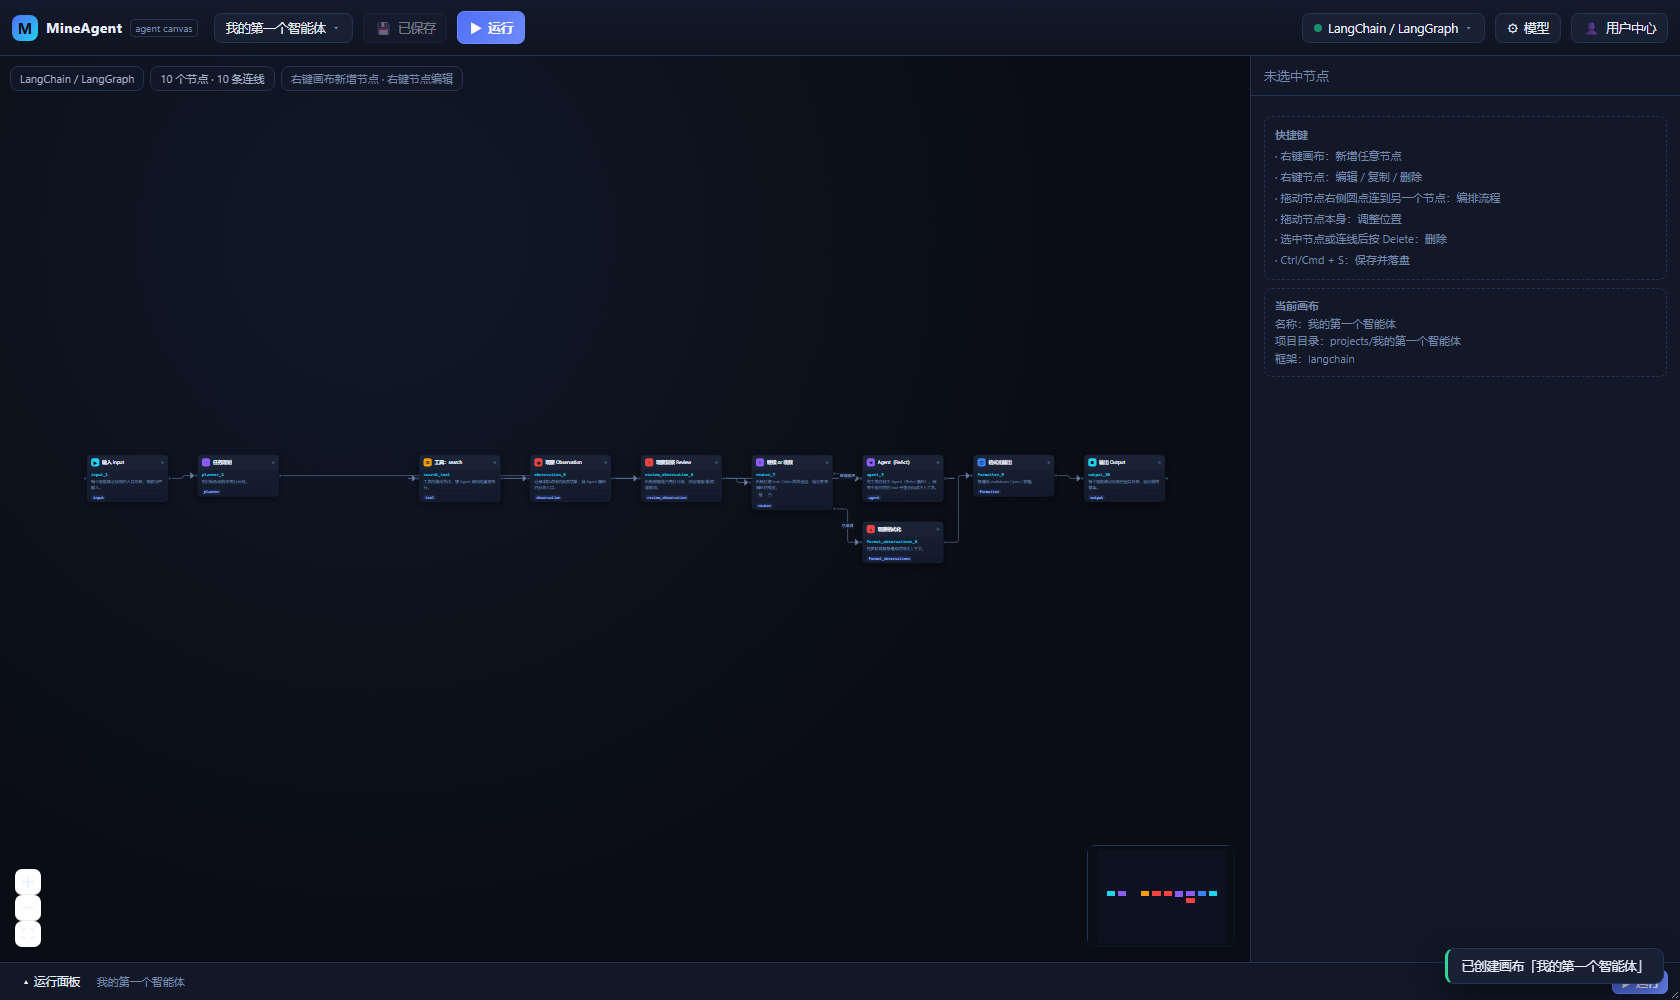
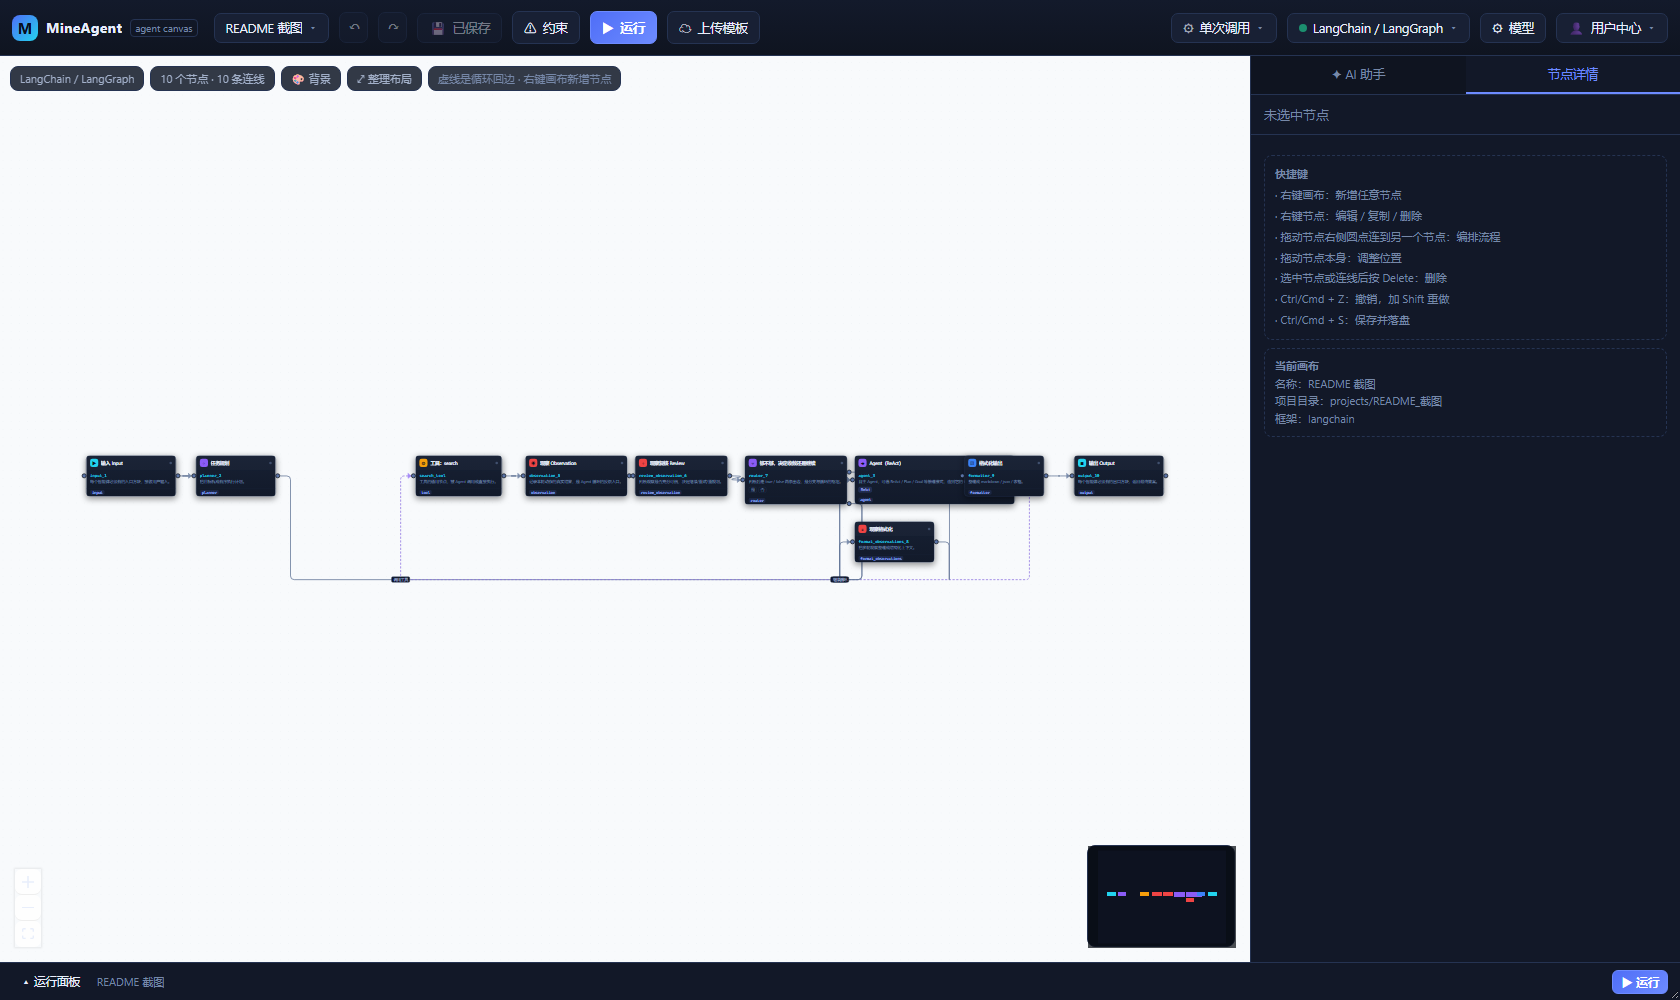
docs: 更新 README（社区模板 / 流式运行 / 33 个模式），重截全部界面截图

diff --git a/README.md b/README.md
@@ -11,6 +11,13 @@
 - 存储：SQLite 存画布与配置；`projects/<画布名>/` 存生成出来的 Agent 项目
 - 启动：双击 `start.bat`（或 `.\start.ps1`），一个端口，一个地址
 
+最近新增：
+
+- 🧩 **社区模板**：一键把画布提成 GitHub PR，也能在应用里加载别人分享的模板
+- ⚡ **流式运行**：模型输出逐 token 回显，执行到哪个节点哪个节点高亮，每个节点的输出都留在运行日志里
+- 🎯 **33 个推理模式模板**：选一个模式直接生成对应架构，不用从空白画布搭
+- 🎨 画布默认改成**纸白**底色，长时间看画布不刺眼
+
 ---
 
 ## 快速开始
@@ -37,7 +44,7 @@
 .\.venv\Scripts\python.exe tools\mock_llm.py --port 8012
 ```
 
-然后在「用户中心」把 Base URL 填 `http://127.0.0.1:8012/v1`、模型填 `mock-model`、Key 随便填，
+然后在「用户中心 → 模型配置」把 Base URL 填 `http://127.0.0.1:8012/v1`、模型填 `mock-model`、Key 随便填，
 整条链路（画布 → 代码 → 运行 → 事件流）就能完整跑起来。
 
 ---
@@ -50,7 +57,9 @@
 
 ![节点代码编辑](docs/screenshots/03-code-editor.png)
 
-点运行后，每个节点的执行过程、耗时、分支走向会实时回显，最终结果单独展示：
+点运行后，执行到哪个节点，哪个节点就会实时高亮（脉冲边框 +「运行中」角标）；
+运行面板逐条打印「执行到哪个节点、耗时多少、输出什么」，模型输出逐 token 流式回显，
+最终结果单独展示：
 
 ![运行面板](docs/screenshots/05-run.png)
 
@@ -68,7 +77,8 @@
 | 右上角「选择模式」 | 框架**左边**的下拉，列出该框架支持的推理模式（ReAct / CoT / Plan-and-Execute / 群聊…），选中后作为画布默认，新建 agent 节点会用它 |
 | 右上角下拉 | 选择 Agent 框架（LangChain/LangGraph、AutoGen、CrewAI…），切换后重建架构图 |
 | 右上角「模型」 | 配置**这个画布**用的大模型与 API Key |
-| 右上角「用户中心」 | 配置**整个项目**的全局 API Key（画布没单独配置时回退到这里） |
+| 右上角「用户中心」 | 账户与配置下拉：GitHub 账户 / 模型配置 / 公共模板 |
+| 运行按钮右侧「☁ 上传模板」 | 把当前画布和项目文件贡献成社区模板，自动创建 GitHub PR（不含任何密钥） |
 | 右键空白画布 | 弹出节点面板，110 种细粒度节点任选（带搜索）；新增后**按约束自动连线** |
 | 鼠标划过节点面板条目 | 右侧弹出该节点的「概念 / 解释 / 用途 / 编码建议」 |
 | 右键任意节点 | 编辑代码逻辑 / 编辑属性参数 / 重命名标识 / 复制 / 删除 |
@@ -81,7 +91,7 @@
 | 单击节点 | 只选中（用于连线和缩放），**不会**切换右侧面板 |
 | 右键任意节点 | 打开右侧「节点详情」并弹出操作菜单 |
 | 双击节点 | 直接打开代码编辑器 |
-| 右侧「AI 助手」 | 常驻对话面板，用用户中心的 key 解答框架 / 编排问题 |
+| 右侧「AI 助手」 | 常驻对话面板，用「用户中心 → 模型配置」的 key 解答框架 / 编排问题 |
 | 节点属性「推理模式」 | 每个 agent 单独选 ReAct / Plan-and-Execute / Goal / Reflexion / ToolCall / Simple |
 | 节点属性「组织关系」 | 指定上级、下级、平级 agent，改一边另一端自动同步 |
 | 右键 agent →「配置模型」 | 给单个 agent 配独立模型与 API Key（key 加密入库，不写进项目文件） |
@@ -123,7 +133,7 @@
 
 ### 画布背景
 
-画布默认是**透明**的（露出页面底色），也可以换成任意底色，或者上传自己的背景图：
+画布默认是**纸白**色（`#f8fafc`），配浅灰点阵网格；也可以换成任意底色，或者上传自己的背景图：
 
 ![画布背景](docs/screenshots/06-background.png)
 
@@ -167,9 +177,42 @@ ctx.delegate("名字", 任务)   # 把活派给某个 agent，等它返回结果
 所以画一张 supervisor + 若干 worker、勾好上下级，就能直接跑出一套分层协作。
 
 **节点级模型**：右键 agent 节点 →「配置模型 / API Key」，可以给这个 agent 单独指定
-服务商、Base URL、模型名和 Key。它优先于画布配置，画布配置又优先于用户中心的全局配置。
+服务商、Base URL、模型名和 Key。它优先于画布配置，画布配置又优先于「模型配置」里的全局配置。
 Key 加密存在本机 `agent_models` 表，运行时通过环境变量 `MINEAGENT_KEY_<节点ID>` 注入子进程，
 不会出现在 `agent.json` 或任何项目文件里。
+
+### 社区模板（GitHub 分享）
+
+画布可以像配置文件一样分享：把自己的作品提 PR 到社区仓库，别人在应用里一键加载成新画布。
+入口都在右上角「用户中心」下拉里：
+
+![用户中心下拉](docs/screenshots/13-user-center.png)
+
+**上传自己的模板**：点运行按钮右侧的「☁ 上传模板」，填名称、描述、标签和署名。
+提交后后端会调 GitHub API 自动 fork / 建分支 / 提交文件 / 创建 Pull Request，
+由仓库维护者审批合并。
+
+![上传为社区模板](docs/screenshots/16-upload.png)
+
+**加载别人的模板**：用户中心 →「公共模板」，列表来自社区仓库的 `templates/` 目录，
+点「加载」会自动新建一张画布，把节点、连线、参数和代码一起下载进来。
+
+![社区模板](docs/screenshots/15-community.png)
+
+**连接 GitHub**：用户中心 →「GitHub 账户」，填模板仓库 `owner/repo` 和 OAuth App 的
+Client ID / Secret，点「连接 GitHub」跳转网页授权（`public_repo` + `read:user`），
+回调后 token 加密存在本机。OAuth App 的 Authorization callback URL 要填
+`http://127.0.0.1:8000/api/github/callback`（页面里会显示当前地址）。
+
+![GitHub 账户](docs/screenshots/14-github.png)
+
+上传内容与安全：
+
+- 会上传：`templates/<slug>/meta.json`、脱敏后的 `canvas.json`，以及 `project/` 下的白名单文件
+  （`agent.py`、`agent.json`、`config.json`、README、requirements、run 脚本、skills）
+- **不会上传**：任何 API Key、`api_key_cipher`、OAuth token、`.env`、本机背景图路径；
+  发布前统一递归剔除，`config.json` 的 `api_key_env` 会重置为 `MINEAGENT_API_KEY`
+- 模板仓库需要是**公开仓库**（申请的是 `public_repo` 权限），第一次上传前先初始化一个 README
 
 ### 内置 AI 助手
 
@@ -177,13 +220,13 @@ Key 加密存在本机 `agent_models` 表，运行时通过环境变量 `MINEAGE
 
 ![AI 助手](docs/screenshots/11-assistant.png)
 
-- 用的是**你在「用户中心」里配的 key**，不需要额外配置
+- 用的是**你在「用户中心 → 模型配置」里配的 key**，不需要额外配置
 - 默认带上画布上下文：画布名、框架、节点清单、约束未通过的项、最近一次运行的报错、
   当前选中节点——所以可以直接问「我这张画布为什么跑不起来」
 - 流式输出，可随时停止；「＋ 新对话」开一轮新的
 - 它只做问答，不会替你改画布
 
-没配 key 时面板会提示去用户中心配置，不会静默失败。
+没配 key 时面板会提示去「用户中心 → 模型配置」，不会静默失败。
 
 ### 编排约束
 
@@ -442,6 +485,8 @@ python agent.py --input "..."
 
 顶部「选择模式」下拉会按当前框架列出可选模式，33 个模式按框架的能力挑配：
 
+![模式选择](docs/screenshots/12-modes.png)
+
 | 框架 | 模式（个数） |
 | --- | --- |
 | LangChain / LangGraph | 单次调用、CoT、函数调用、ReAct、Plan-and-Execute、ReWOO、反思、目标驱动、自洽投票、Tree-of-Thoughts、主管调度、分治汇总（12） |
@@ -517,7 +562,7 @@ python agent.py --input "..."
 
 1. **节点级**：右键 agent 节点 →「配置模型 / API Key」（只影响这个 agent）；
 2. **画布级**：右上角「模型」→ 填 Base URL / 模型名 / API Key（只影响这个画布）；
-3. **全局**：右上角「用户中心」→ 配置整个项目默认使用的 key（兜底）；
+3. **全局**：右上角「用户中心 → 模型配置」→ 配置整个项目默认使用的 key（兜底）；
 4. **项目文件**：在 `projects/<画布>/.env` 里写 `MINEAGENT_API_KEY=sk-xxx`（脱离网页独立运行时用）。
 
 填好可点「测试连接」立即验证。Key 加密存在本机 `backend/data/mineagent.db`，
@@ -525,7 +570,7 @@ python agent.py --input "..."
 节点级的 key 存在 `agent_models` 表，运行时只以 `MINEAGENT_KEY_<节点ID>` 环境变量的形式注入子进程。
 
 **模型名不用手敲**：填完 Base URL 和 API Key 后，点输入框右边的「⟳ 获取列表」，
-会调服务商的 `/v1/models` 把可用模型拉下来填进下拉候选（三处配置都支持：用户中心 / 画布模型 / 节点模型）。
+会调服务商的 `/v1/models` 把可用模型拉下来填进下拉候选（三处配置都支持：模型配置 / 画布模型 / 节点模型）。
 如果服务商不提供这个接口，会提示你直接手填，输入框始终可以自由输入。
 
 常见服务商的 Base URL 内置在预设里（**DeepSeek 是默认**、OpenAI、通义千问、智谱、月之暗面、Ollama 本地、自定义兼容地址）。
